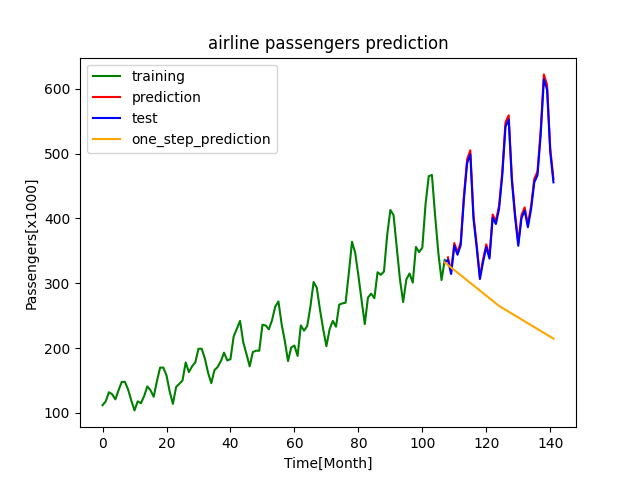
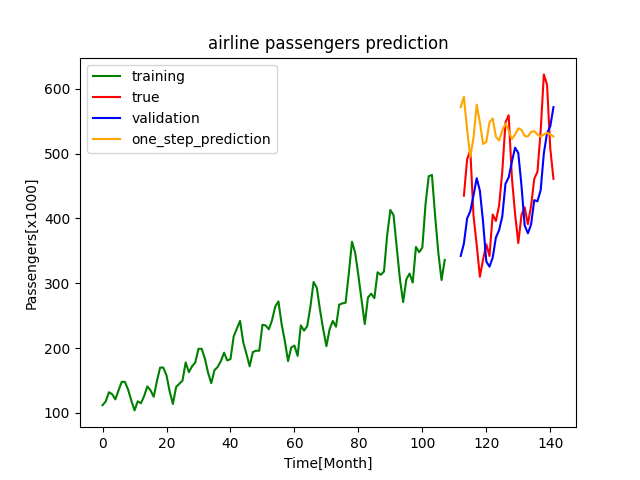
refactor airline_passengers_forecasting_keras.py+

diff --git a/TimeSeriesPrediction/2_UnivariantTimeSeriesForecast/airline_passengers_forecasting_keras.py b/TimeSeriesPrediction/2_UnivariantTimeSeriesForecast/airline_passengers_forecasting_keras.py
@@ -14,24 +14,38 @@ class AirlinePassengersDataSet:
         self.data = self.data[:-2]
 
     def get_train_inputs(self):
-        return self.data.loc[0:107, "Passengers"]
+        return self.data.loc[0:107, "Passengers"].reset_index(drop=True)
 
     def get_train_targets(self):
-        return self.data.loc[0:107, "Passengers+1"]
+        return self.data.loc[0:107, "Passengers+1"].reset_index(drop=True)
 
     def get_test_inputs(self):
-        return self.data.loc[107:142, "Passengers"]
+        return self.data.loc[107:142, "Passengers"].reset_index(drop=True)
 
     def get_test_targets(self):
-        return self.data.loc[107:142, "Passengers+1"]
-
-    def get_last_train_input(self):
-        return self.data.loc[0:107, "Passengers"].tail(1).item()
+        return self.data.loc[107:142, "Passengers+1"].reset_index(drop=True)
 
 
 airlinePassengers = AirlinePassengersDataSet()
 airlinePassengers.create_targets()
 
+
+def create_timeseries(inputs, targets, span):
+    timeseries = list()
+    for i in range(span, len(inputs)):
+        timeseries.append(inputs.loc[i - span:i])
+    timeseries = np.array(timeseries)
+    targets = targets[span:]
+    return timeseries, targets
+
+
+train_input_timeseries, train_targets = create_timeseries(airlinePassengers.get_train_inputs(),
+                                                          airlinePassengers.get_train_targets(), 5)
+
+test_input_timeseries, test_targets = create_timeseries(airlinePassengers.get_test_inputs(),
+                                                        airlinePassengers.get_test_targets(), 5)
+
+print(train_input_timeseries.shape)
 
 def create_FFN(inputs, targets):
     model = tf.keras.Sequential()
@@ -42,10 +56,7 @@ def create_FFN(inputs, targets):
     return model
 
 
-ffn = create_FFN(airlinePassengers.get_train_inputs(), airlinePassengers.get_train_targets())
-
-results = pd.DataFrame()
-results["true"] = airlinePassengers.get_test_targets().shift(1)
+ffn = create_FFN(train_input_timeseries, train_targets)
 
 
 def validation_forecast(model, inputs):
@@ -53,8 +64,9 @@ def validation_forecast(model, inputs):
     return predictions.flatten().tolist()
 
 
-validation_inputs = airlinePassengers.get_test_inputs()
-results["validation"] = validation_forecast(ffn, validation_inputs)
+results = pd.DataFrame()
+results["true"] = test_targets.shift(1)
+results["validation"] = validation_forecast(ffn, test_input_timeseries)
 
 
 def one_step_ahead_forecast(model, current_value, number_of_predictions):
@@ -62,16 +74,23 @@ def one_step_ahead_forecast(model, current_value, number_of_predictions):
     for element in range(0, number_of_predictions):
         prediction = model.predict([current_value])
         one_step_ahead_forecast.append(prediction[0][0])
-        current_value = prediction[0]
+        current_value = np.delete(current_value, 0)
+        current_value = np.append(current_value, prediction)
+        current_value = current_value.reshape(1, current_value.shape[0])
     return one_step_ahead_forecast
 
 
-start_value = airlinePassengers.get_last_train_input()
-results["one_step_prediction"] = one_step_ahead_forecast(ffn, start_value, len(airlinePassengers.get_test_targets()))
+start_value = test_input_timeseries[-1]
+start_value_reshaped = start_value.reshape(1, start_value.shape[0])
+print(start_value_reshaped.shape)
+results["one_step_prediction"] = one_step_ahead_forecast(ffn, start_value_reshaped, len(test_targets))
+results.index += 107
+print(airlinePassengers.get_train_inputs())
+print(results)
 
 plt.plot(airlinePassengers.get_train_inputs(), color="green", label="training")
-plt.plot(results["true"], color="red", label="prediction")
-plt.plot(results["validation"], color="blue", label="test")
+plt.plot(results["true"], color="red", label="true")
+plt.plot(results["validation"], color="blue", label="validation")
 plt.plot(results["one_step_prediction"], color="orange", label="one_step_prediction")
 plt.title("airline passengers prediction")
 plt.xlabel("Time[Month]")
